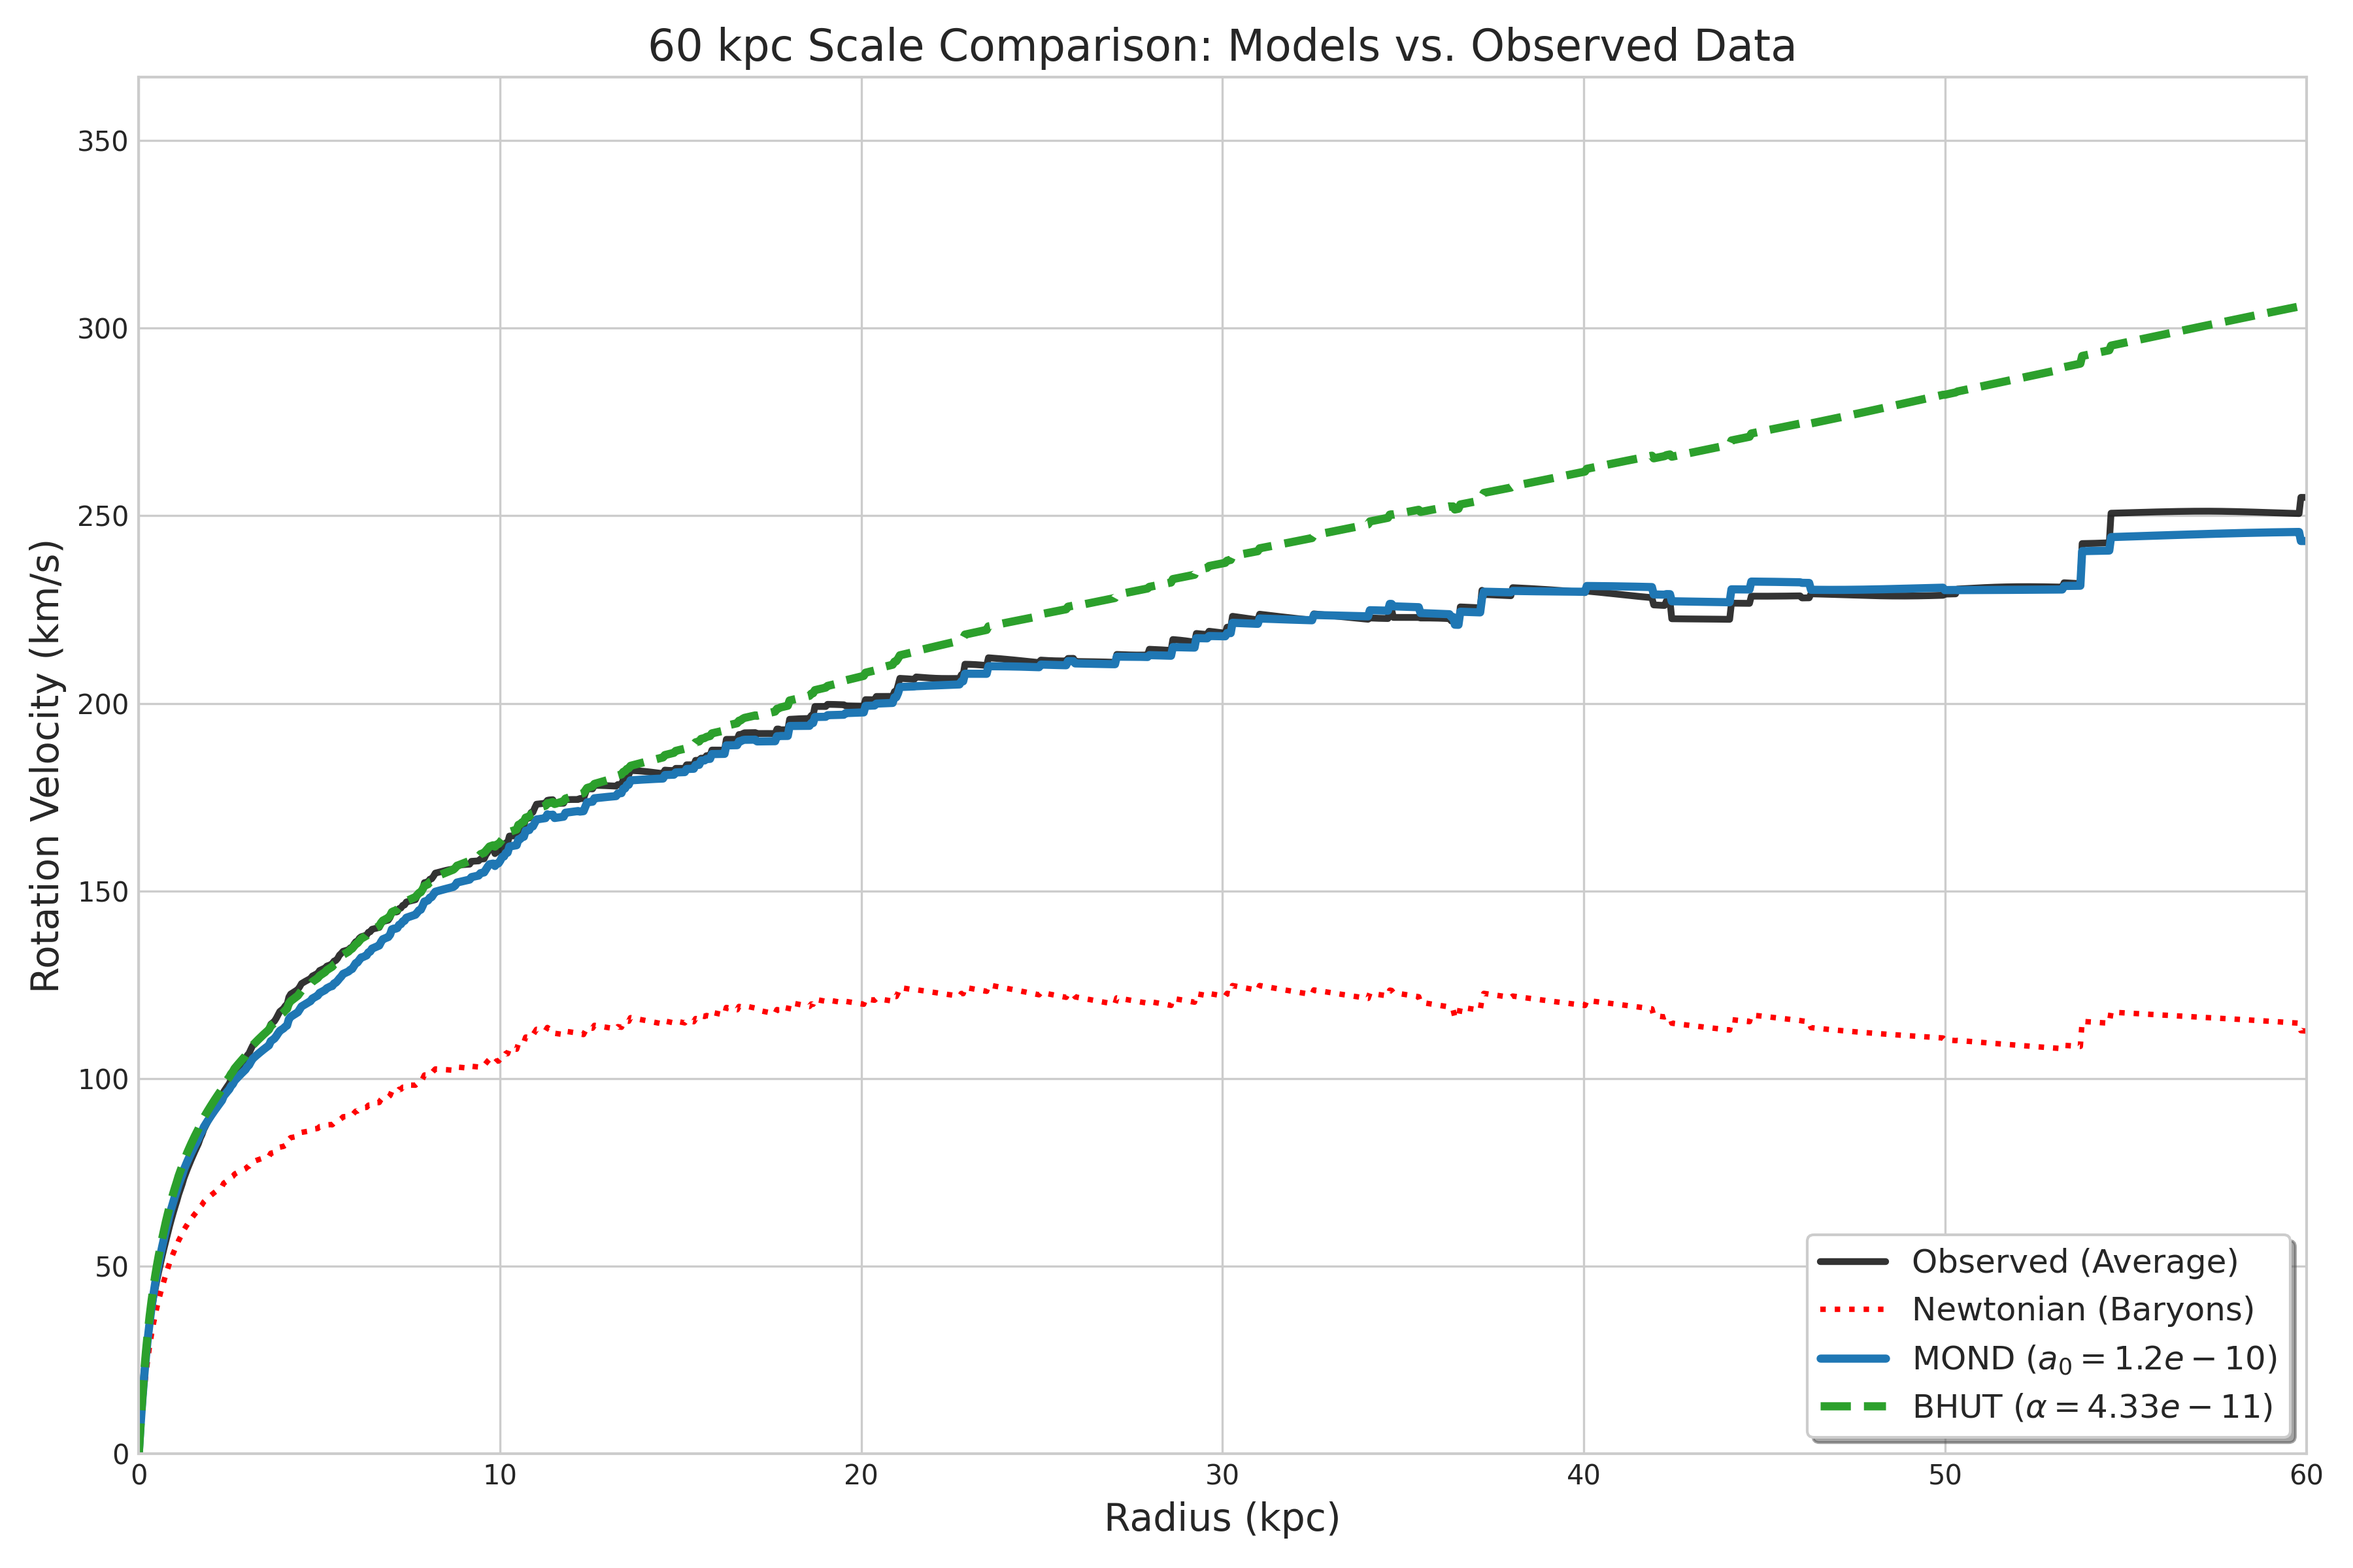
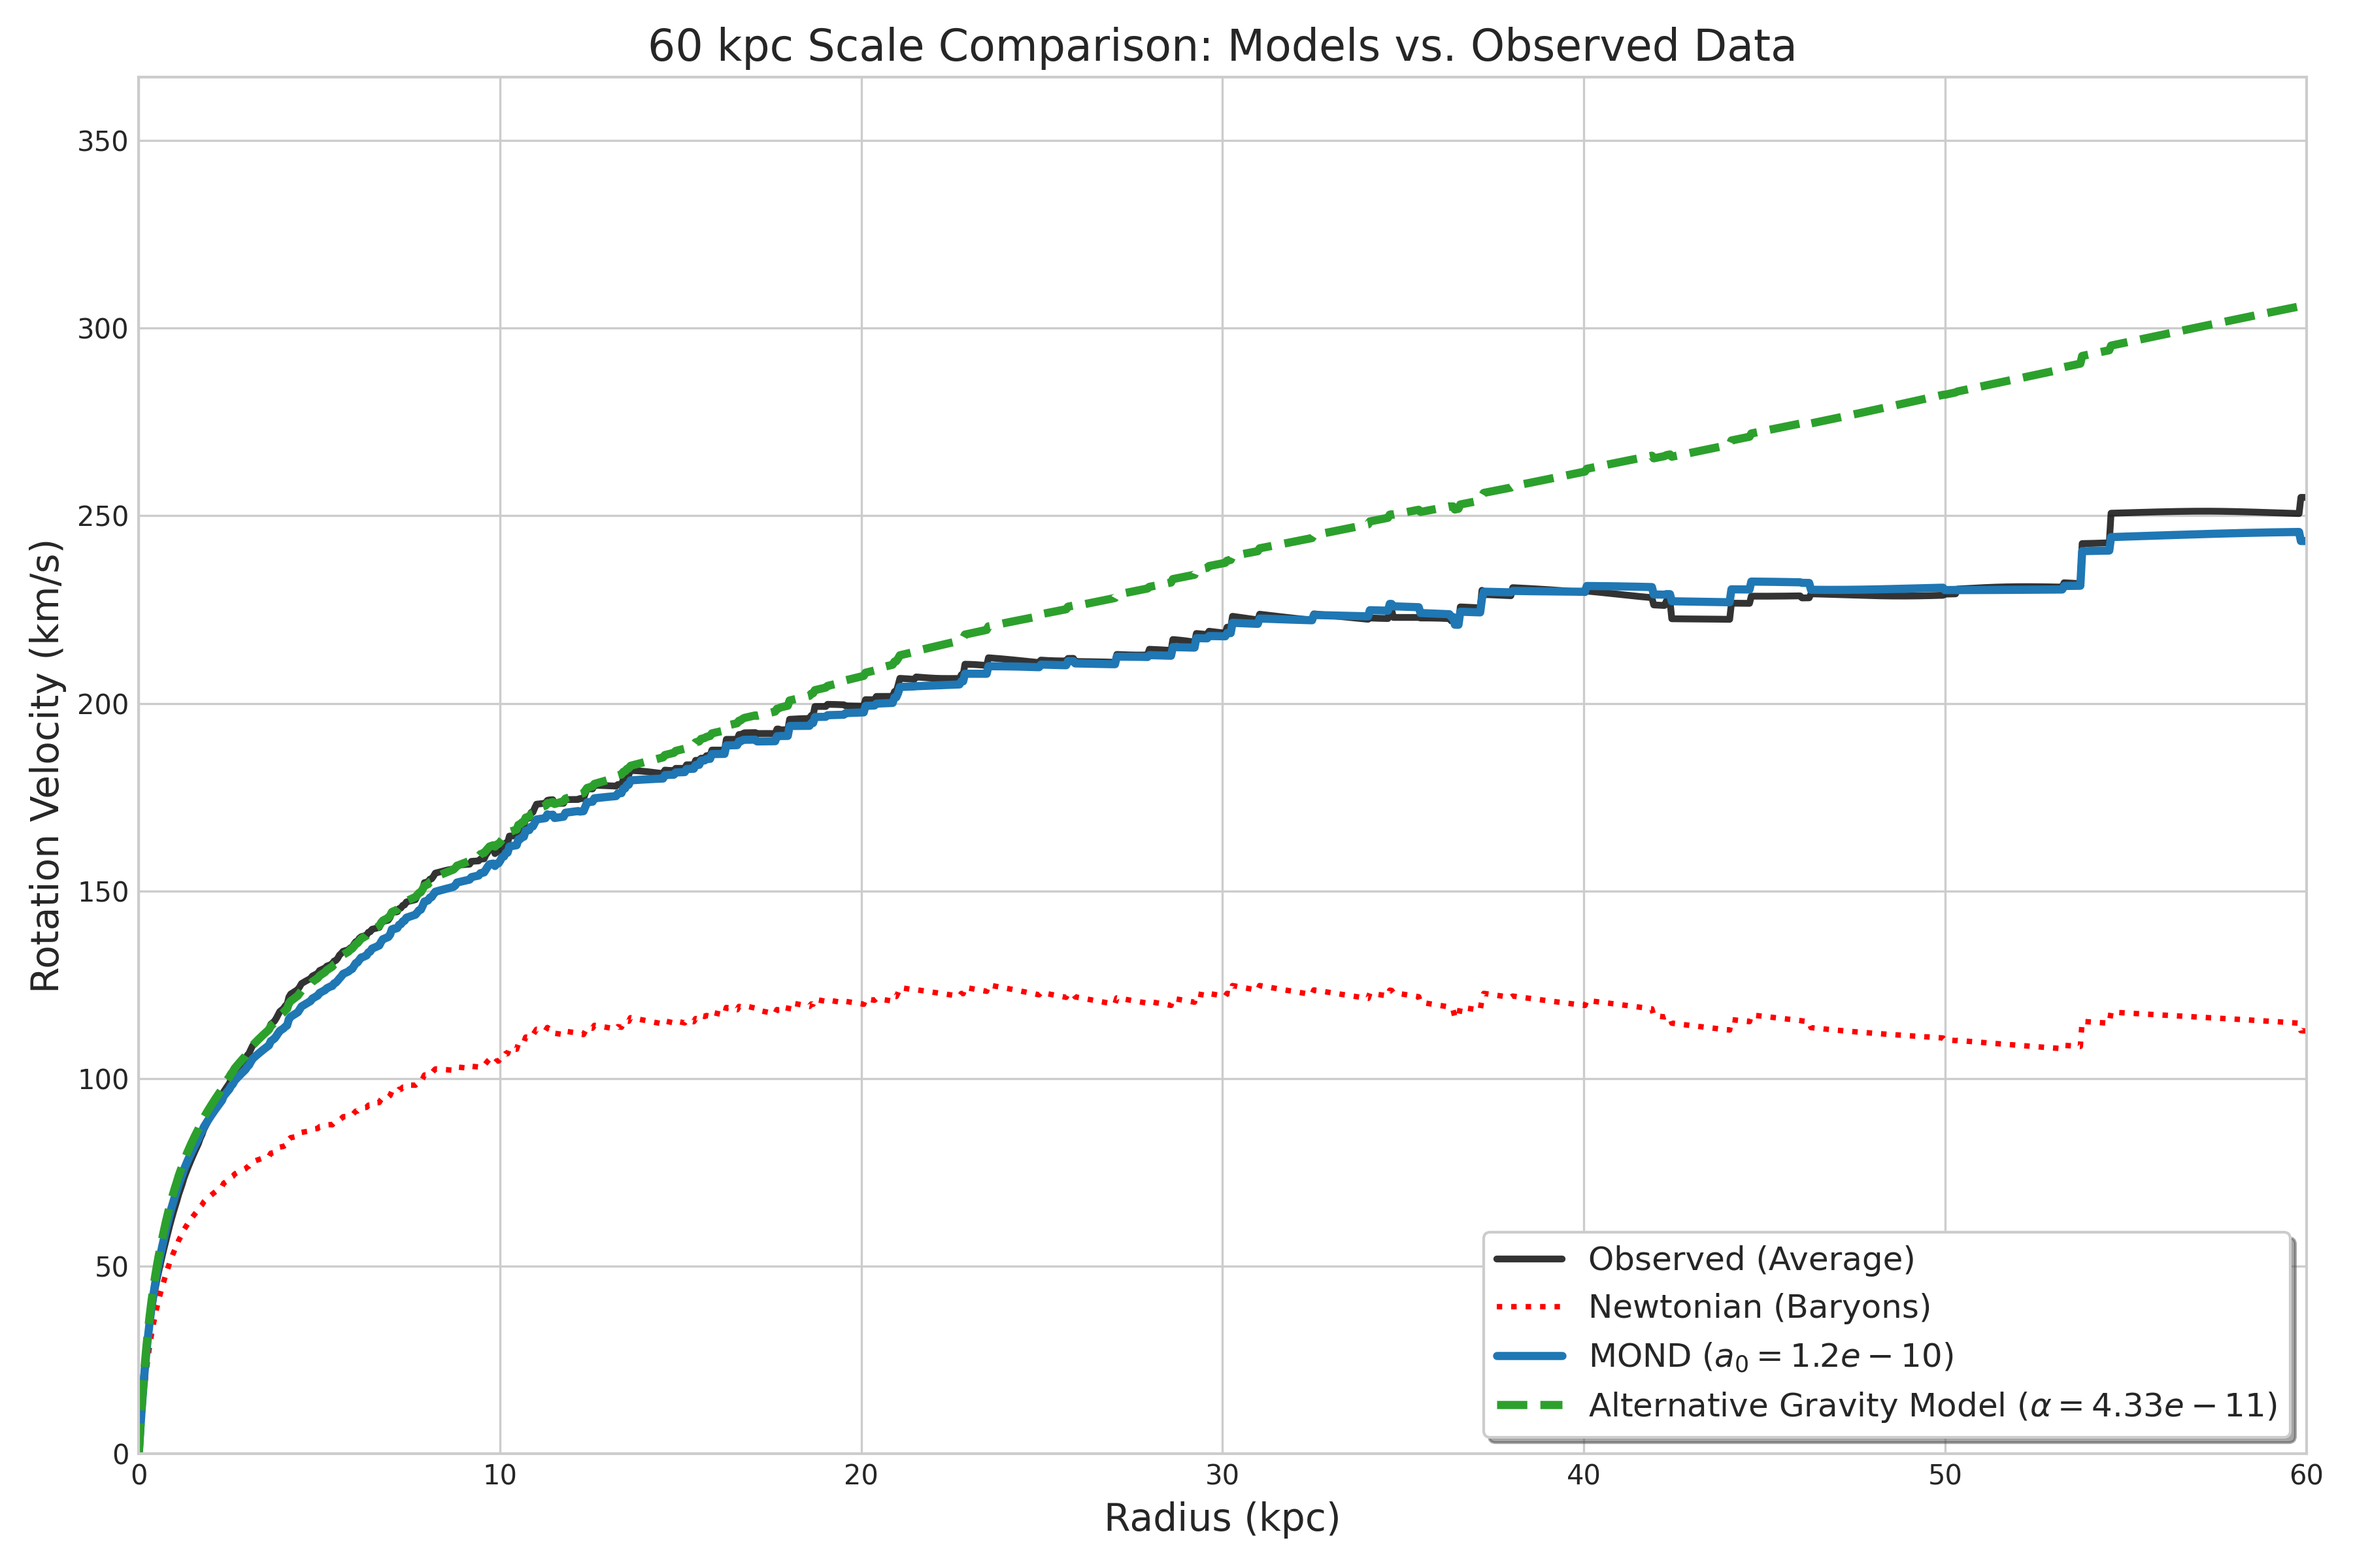
Add results section to README

Changed region(s): [[0.6222, 0.7812, 0.9644, 0.9375]]

diff --git a/small_scale.py b/small_scale.py
@@ -17,7 +17,7 @@ ALPHA_GRID = np.logspace(-12, -10, 100)
 if not os.path.exists(FIGURES_PATH):
     os.makedirs(FIGURES_PATH)
 
-def get_bhut(v_newtonian, r_m, alpha):
+def get_alt_grav(v_newtonian, r_m, alpha):
     return np.sqrt((v_newtonian * 1000)**2 + alpha * r_m) / 1000
 
 def get_mond(v_gas, v_disk, v_bulge, ml_ratio, r_m):
@@ -67,22 +67,22 @@ v_newt_avg = interp_avg(all_v_newt, all_radii)
 
 sse_list = [] 
 for alpha in ALPHA_GRID:
-    temp_bhut_curves = [get_bhut(vn, rd * KPC_TO_M, alpha) for rd, vn in zip(all_radii, all_v_newt)]
-    bhut_avg = interp_avg(temp_bhut_curves, all_radii)
+    temp_alt_grav_curves = [get_alt_grav(vn, rd * KPC_TO_M, alpha) for rd, vn in zip(all_radii, all_v_newt)]
+    alt_grav_avg = interp_avg(temp_alt_grav_curves, all_radii)
     
-    mask = ~np.isnan(v_obs_avg) & ~np.isnan(bhut_avg)
-    sse = np.sum((v_obs_avg[mask] - bhut_avg[mask])**2)
+    mask = ~np.isnan(v_obs_avg) & ~np.isnan(alt_grav_avg)
+    sse = np.sum((v_obs_avg[mask] - alt_grav_avg[mask])**2)
     sse_list.append(sse)
 
 best_alpha = ALPHA_GRID[np.argmin(sse_list)]
 print(f"Optimization Complete.")
 print(f"Best Alpha for inner {FIT_RADIUS_KPC} kpc: {best_alpha:.3e}")
 
-bhut_best_curves = [get_bhut(vn, rd * KPC_TO_M, best_alpha) for rd, vn in zip(all_radii, all_v_newt)]
+alt_grav_best_curves = [get_alt_grav(vn, rd * KPC_TO_M, best_alpha) for rd, vn in zip(all_radii, all_v_newt)]
 mond_curves = [get_mond(vg, vd, vb, FIXED_ML, rd * KPC_TO_M) 
                for rd, vg, vd, vb in zip(all_radii, all_v_gas, all_v_disk, all_v_bulge)]
 
-v_bhut_smooth = interp_avg(bhut_best_curves, all_radii)
+v_alt_grav_smooth = interp_avg(alt_grav_best_curves, all_radii)
 v_mond_smooth = interp_avg(mond_curves, all_radii)
 
 plt.style.use('seaborn-v0_8-whitegrid')
@@ -92,8 +92,8 @@ plt.plot(common_r, v_obs_avg, color='black', label='Observed (Avg)', linewidth=2
 plt.plot(common_r, v_newt_avg, color='red', linestyle=':', label='Newtonian (Baryons)', linewidth=2)
 
 plt.plot(common_r, v_mond_smooth, color='blue', label='MOND (RAR)', linewidth=3)
-plt.plot(common_r, v_bhut_smooth, color='green', linestyle='--', 
-         label=fr'BHUT ($\alpha$={best_alpha:.2e})', linewidth=3)
+plt.plot(common_r, v_alt_grav_smooth, color='green', linestyle='--', 
+         label=fr'Alternative Gravity Model ($\alpha$={best_alpha:.2e})', linewidth=3)
 
 plt.xlabel('Radius (kpc)', fontsize=13)
 plt.ylabel('Rotation Velocity (km/s)', fontsize=13)

diff --git a/large_scale.py b/large_scale.py
@@ -9,11 +9,11 @@ FOLDER_PATH = './data'
 FIGURES_PATH = './figures'
 KPC_TO_M = 3.086e19
 FIXED_ML = 0.5
-ALPHA_BHUT = 4.329e-11 
+ALPHA = 4.329e-11
 A0_MOND = 1.2e-10
 MAX_PLOT_R = 60.0      
 
-def get_bhut(v_newtonian, r_m, alpha):
+def get_alt_grav(v_newtonian, r_m, alpha):
     return np.sqrt((v_newtonian * 1000)**2 + alpha * r_m) / 1000
 
 def get_mond(v_gas, v_disk, v_bulge, ml_ratio, r_m):
@@ -59,11 +59,11 @@ def interp_avg(curves, radii_list):
 v_obs_smooth = interp_avg(all_v_obs, all_radii)
 v_newt_smooth = interp_avg(all_v_newt, all_radii)
 
-bhut_list = [get_bhut(vn, rd * KPC_TO_M, ALPHA_BHUT) for rd, vn in zip(all_radii, all_v_newt)]
+alt_grav_list = [get_alt_grav(vn, rd * KPC_TO_M, ALPHA) for rd, vn in zip(all_radii, all_v_newt)]
 mond_list = [get_mond(vg, vd, vb, FIXED_ML, rd * KPC_TO_M) 
              for rd, vg, vd, vb in zip(all_radii, all_v_gas, all_v_disk, all_v_bulge)]
 
-v_bhut_smooth = interp_avg(bhut_list, all_radii)
+v_alt_grav_smooth = interp_avg(alt_grav_list, all_radii)
 v_mond_smooth = interp_avg(mond_list, all_radii)
 
 plt.style.use('seaborn-v0_8-whitegrid')
@@ -76,8 +76,8 @@ plt.plot(common_r, v_newt_smooth, color='red', linestyle=':', label='Newtonian (
 plt.plot(common_r, v_mond_smooth, color='#1f77b4', linestyle='-', linewidth=3, 
          label=fr'MOND ($a_0={A0_MOND:.1e}$)')
 
-plt.plot(common_r, v_bhut_smooth, color='#2ca02c', linestyle='--', linewidth=3, 
-         label=fr'BHUT ($\alpha={ALPHA_BHUT:.2e}$)')
+plt.plot(common_r, v_alt_grav_smooth, color='#2ca02c', linestyle='--', linewidth=3, 
+        label=fr'Alternative Gravity Model ($\alpha={ALPHA:.2e}$)')
 
 plt.xlabel('Radius (kpc)', fontsize=14)
 plt.ylabel('Rotation Velocity (km/s)', fontsize=14)
@@ -87,7 +87,7 @@ plt.xlim(0, MAX_PLOT_R)
 
 valid_max = np.nanmax([
     np.nanmax(v_obs_smooth), 
-    np.nanmax(v_bhut_smooth), 
+    np.nanmax(v_alt_grav_smooth), 
     np.nanmax(v_mond_smooth)
 ])
 plt.ylim(0, valid_max * 1.2)

diff --git a/single_galaxy.py b/single_galaxy.py
@@ -14,7 +14,7 @@ A0_MOND = 1.2e-10
 if not os.path.exists(FIGURES_PATH):
     os.makedirs(FIGURES_PATH)
 
-def get_bhut(v_newtonian, r_m, alpha):
+def get_alt_grav(v_newtonian, r_m, alpha):
     v_sq_si = (v_newtonian * 1000)**2 + alpha * r_m
     return np.sqrt(np.maximum(v_sq_si, 0)) / 1000
 
@@ -43,7 +43,7 @@ sse_list = []
 r_m = r * KPC_TO_M
 
 for a in alpha_grid:
-    v_model = get_bhut(v_newt, r_m, a)
+    v_model = get_alt_grav(v_newt, r_m, a)
     sse = np.sum((v_obs - v_model)**2)
     sse_list.append(sse)
 
@@ -65,7 +65,7 @@ v_bulge_s = interp_component(r, v_bulge, r_smooth)
 
 v_newt_smooth = np.sqrt(v_gas_s**2 + FIXED_ML * (v_disk_s**2 + v_bulge_s**2))
 v_mond_smooth = get_mond(v_newt_smooth, r_m_smooth)
-v_bhut_smooth = get_bhut(v_newt_smooth, r_m_smooth, best_alpha)
+v_alt_grav_smooth = get_alt_grav(v_newt_smooth, r_m_smooth, best_alpha)
 
 v_obs_smooth = interp_component(r, v_obs, r_smooth)
 
@@ -73,8 +73,8 @@ plt.style.use('seaborn-v0_8-whitegrid')
 plt.figure(figsize=(10, 6))
 
 plt.plot(r_smooth, v_mond_smooth, color='blue', alpha=0.8, linewidth=2, label='MOND (RAR)')
-plt.plot(r_smooth, v_bhut_smooth, color='green', linestyle='--', linewidth=2,
-         label=fr'BHUT ($\alpha$={best_alpha:.2e})')
+plt.plot(r_smooth, v_alt_grav_smooth, color='green', linestyle='--', linewidth=2,
+         label=fr'Alternative Gravity Model ($\alpha$={best_alpha:.2e})')
 plt.plot(r_smooth, v_newt_smooth, color='red', linestyle=':', linewidth=1.5, label='Newtonian (Baryons)')
 
 plt.plot(r_smooth, v_obs_smooth, color='black', alpha=0.3, linewidth=1) 
